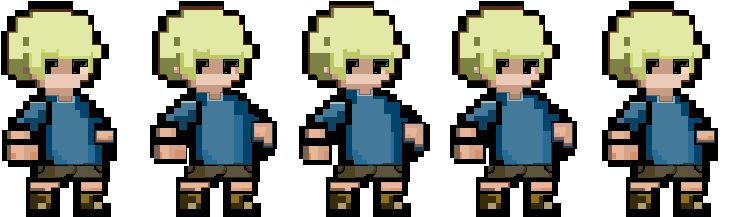
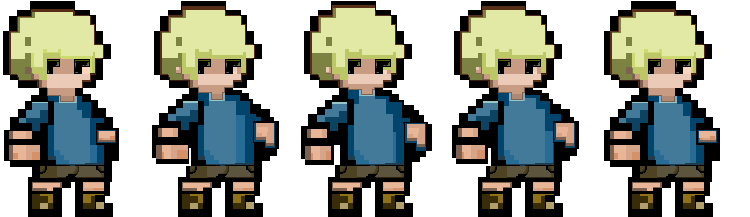
Фиксы текстур

diff --git a/core/src/com/detone_studio/platform/Sprites/Character_hero.java b/core/src/com/detone_studio/platform/Sprites/Character_hero.java
@@ -77,8 +77,8 @@ public class Character_hero extends Sprite_basic {
         //local_y=y;
         new TextureRegion();
         animation_jump = new Animation(new TextureRegion(new Texture("atlas/jump.png")),4,1.0f);
-        animation_idle = new Animation(new TextureRegion(new Texture("atlas/idle_char.png")),5,0.8f);
-        animation_walk = new Animation(new TextureRegion(new Texture("atlas/walk_char.png")),5,0.5f);
+        animation_idle = new Animation(new TextureRegion(new Texture("atlas/idle_char_num.png")),5,0.8f);
+        animation_walk = new Animation(new TextureRegion(new Texture("atlas/walk_char2.png")),5,0.5f);
         //sprite = new Sprite(new Texture(""));
 
         float[] vertices={

diff --git a/desktop/src/com/detone_studio/platform/desktop/DesktopLauncher.java b/desktop/src/com/detone_studio/platform/desktop/DesktopLauncher.java
@@ -8,8 +8,8 @@ public class DesktopLauncher {
 	public static void main (String[] arg) {
 		LwjglApplicationConfiguration config = new LwjglApplicationConfiguration();
 		config.title="Платформер";
-		config.width=Main.WIDTH/3;
-		config.height=Main.HEIGHT/3;
+		config.width=Main.WIDTH;
+		config.height=Main.HEIGHT;
 		//config.vSyncEnabled=false;
 		//config.foregroundFPS = 0;
 		//config.forceExit = true;
